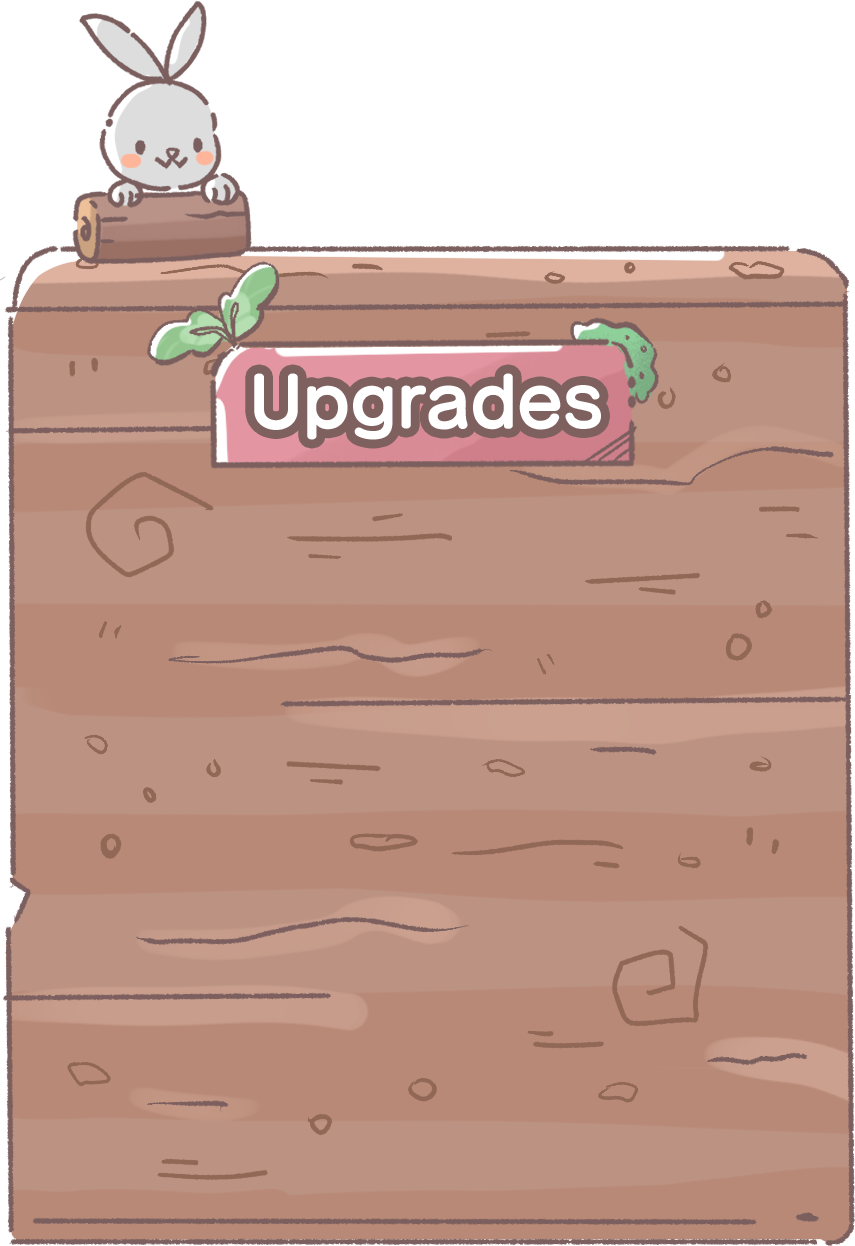
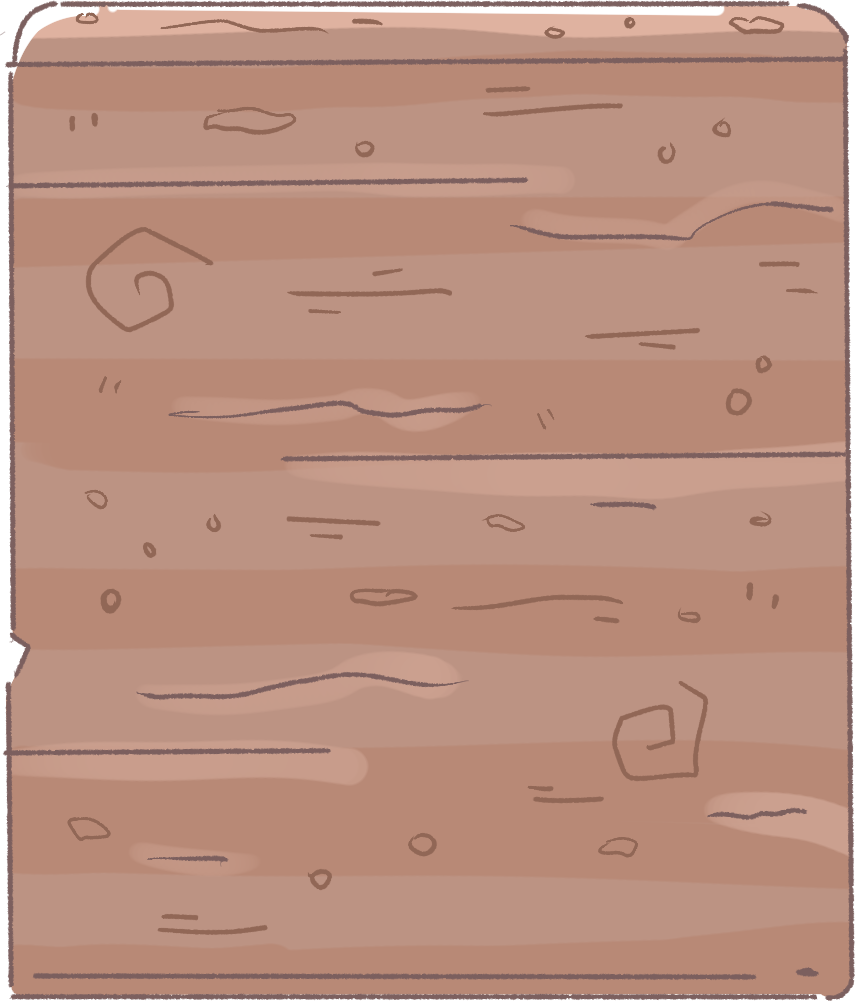
fix hud

diff --git a/lib/main.dart b/lib/main.dart
@@ -4,6 +4,7 @@ import 'package:flame/game.dart';
 import 'package:hive_flutter/hive_flutter.dart';
 import 'package:provider/provider.dart';
 import 'package:flutter/gestures.dart'; 
+import 'package:flutter/material.dart';
 
 import 'game/bunny_game.dart';
 import 'screens/hud_overlay.dart';
@@ -36,8 +37,7 @@ void main() async {
 // Open the box and save it to a variable temporarily
   final box = await Hive.openBox('playerData');
 
-  // --- NUKE THE SAVE FILE ---
-  await box.clear();
+    await box.clear();
 
   final repository = PlayerRepository();
   final viewModel = GameViewModel(repository);

diff --git a/lib/screens/main_hud_overlay.dart b/lib/screens/main_hud_overlay.dart
@@ -126,12 +126,12 @@ class _MainHudOverlayState extends State<MainHudOverlay> {
 
   Widget _buildClosedTray() {
     return Align(
-      alignment: Alignment.centerLeft, // Centered vertically on the left edge
+      alignment: Alignment.bottomCenter,
       child: GestureDetector(
         onTap: () => setState(() => isTrayExpanded = true),
         child: Image.asset(
           'assets/images/hud_closed_tray.png',
-          width: 140, // Much bigger!
+          width: 340, 
           fit: BoxFit.contain,
           errorBuilder: (context, error, stackTrace) => Container(
             width: 100,

diff --git a/lib/components/ancestor_carrot.dart b/lib/components/ancestor_carrot.dart
@@ -1,7 +1,6 @@
 import 'package:flame/components.dart';
 import 'package:flame/events.dart';
 import 'package:flame/effects.dart';
-import 'package:flutter/material.dart';
 import '../game/bunny_game.dart';
 import 'floating_text.dart';
 